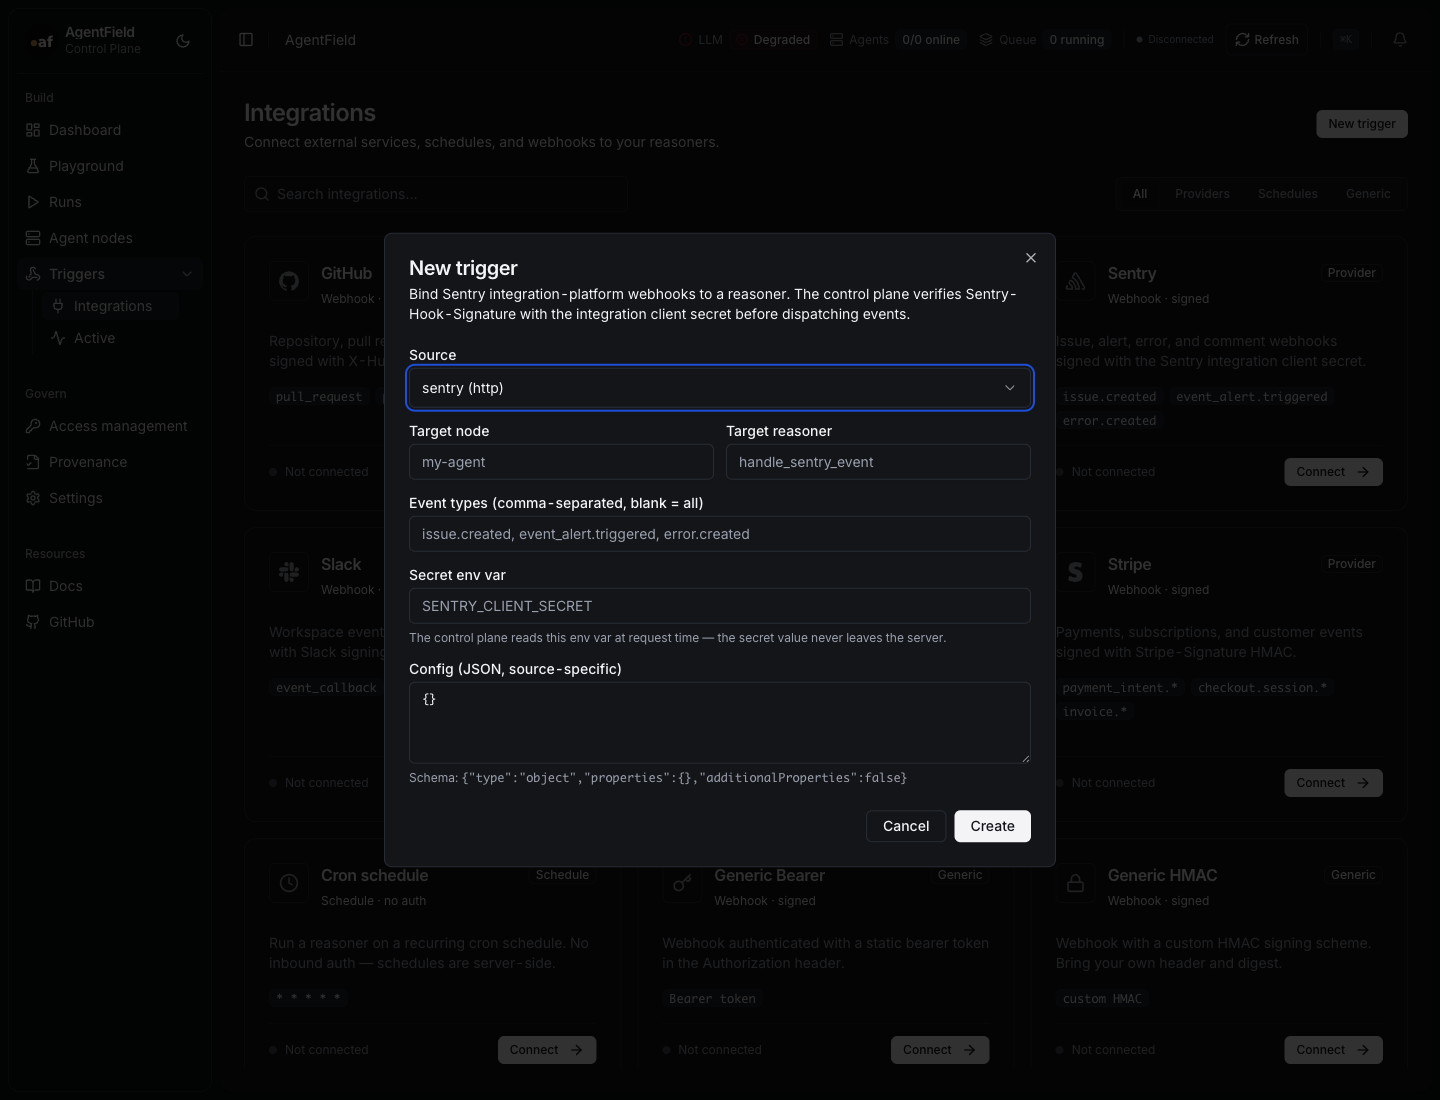
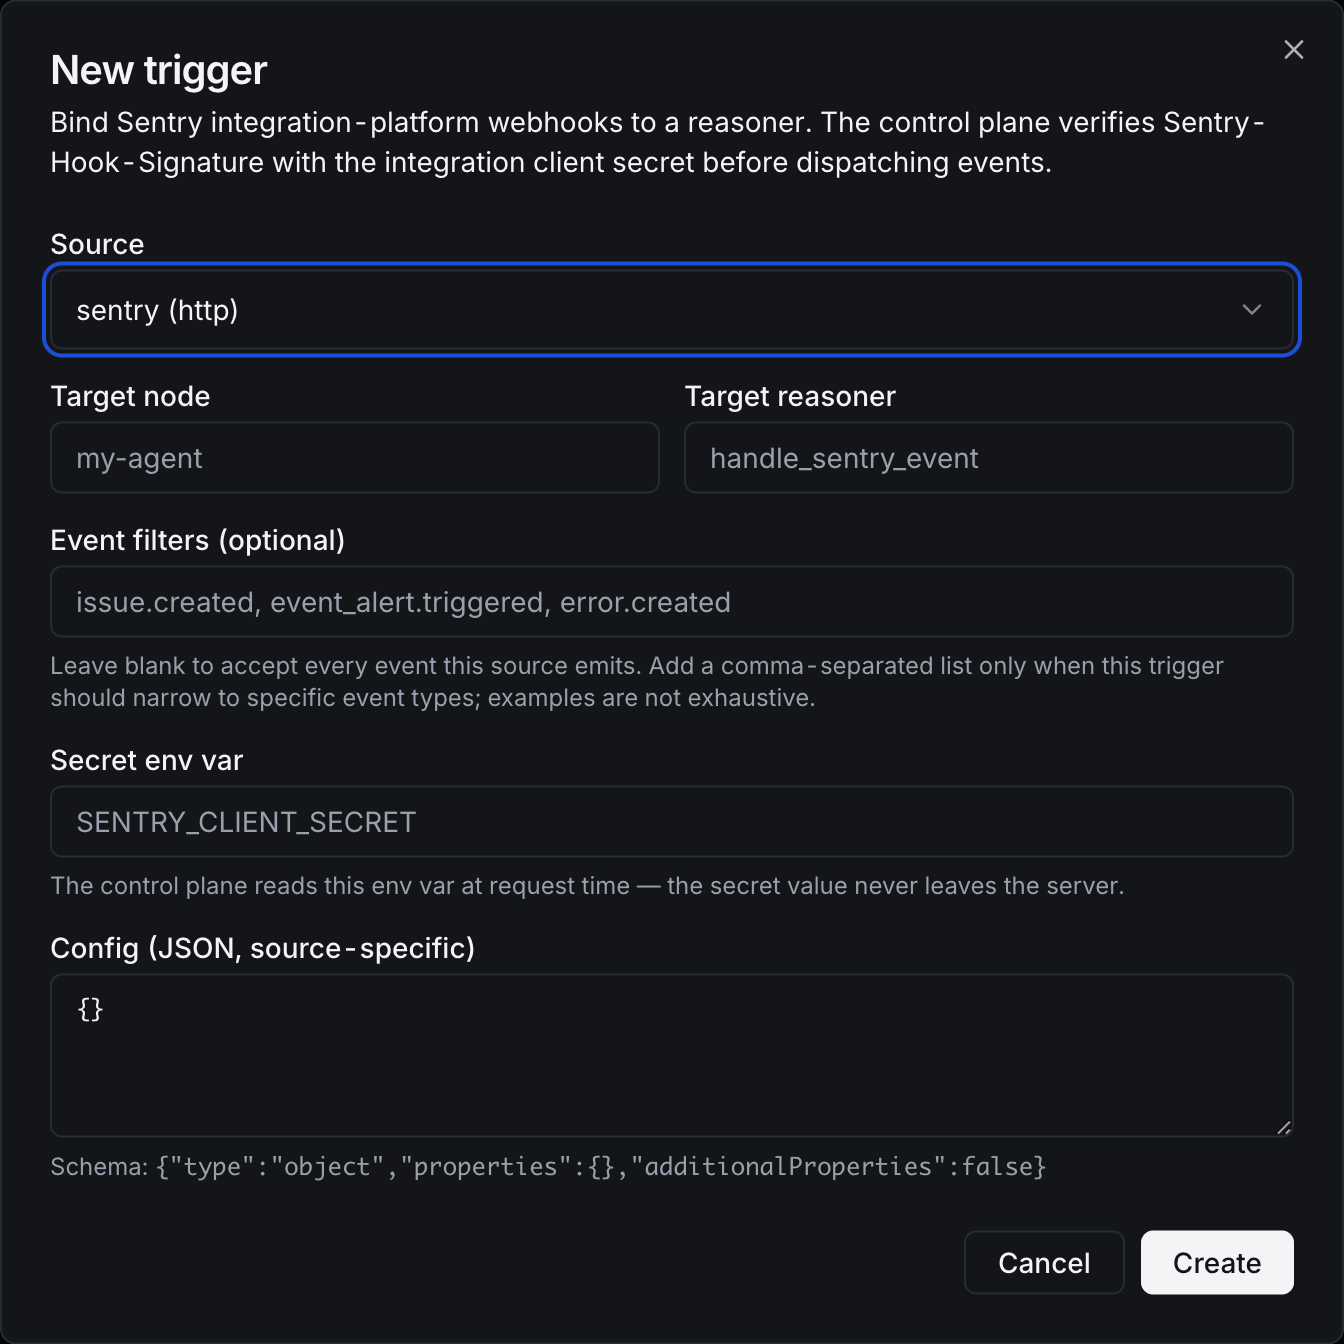
docs: clarify integration event filters

diff --git a/control-plane/web/client/src/test/pages/triggers-pages.test.tsx b/control-plane/web/client/src/test/pages/triggers-pages.test.tsx
@@ -243,7 +243,7 @@ describe("trigger management pages", () => {
     expect(await screen.findByRole("heading", { name: "New trigger" })).toBeInTheDocument();
     expect(screen.getByText(/Snowflake event table poller/i)).toBeInTheDocument();
     expect(screen.getAllByText(/programmatic access token/i).length).toBeGreaterThan(0);
-    expect(screen.queryByText(/Event types/i)).not.toBeInTheDocument();
+    expect(screen.queryByText(/Event filters/i)).not.toBeInTheDocument();
     expect(screen.getByPlaceholderText("handle_snowflake_event")).toBeInTheDocument();
     expect(screen.getByPlaceholderText("SNOWFLAKE_PAT")).toBeInTheDocument();
     expect(screen.getByDisplayValue(/"mode": "event_table_poll"/i)).toBeInTheDocument();
@@ -264,6 +264,8 @@ describe("trigger management pages", () => {
     expect(linearConnect).toBeTruthy();
     await user.click(linearConnect!);
     expect((await screen.findAllByText(/Linear-Signature/i)).length).toBeGreaterThan(0);
+    expect(screen.getByText("Event filters (optional)")).toBeInTheDocument();
+    expect(screen.getByText(/Leave blank to accept every event/i)).toBeInTheDocument();
     expect(screen.getByPlaceholderText("handle_linear_event")).toBeInTheDocument();
     expect(screen.getByPlaceholderText("LINEAR_WEBHOOK_SECRET")).toBeInTheDocument();
     expect(screen.getByDisplayValue(/"tolerance_seconds": 60/)).toBeInTheDocument();

diff --git a/docs/integrations/linear.md b/docs/integrations/linear.md
@@ -12,7 +12,7 @@ AgentField verifies `Linear-Signature`, rejects stale `webhookTimestamp` values 
 
 ![Linear connect dialog](../screenshots/linear-connect-dialog.png)
 
-The dialog pre-fills the common event filters, the signing-secret env var, and the timestamp tolerance config. Leave event types blank when one trigger should accept every Linear event.
+The dialog shows common event-type examples, the signing-secret env var, and the timestamp tolerance config. Event filters are optional; leave them blank when one trigger should accept every Linear event, including future event types Linear may add.
 
 ## Capability Node
 

diff --git a/docs/integrations/sentry.md b/docs/integrations/sentry.md
@@ -12,7 +12,7 @@ AgentField verifies `Sentry-Hook-Signature` and emits event types such as `issue
 
 ![Sentry connect dialog](../screenshots/sentry-connect-dialog.png)
 
-The dialog pre-fills common issue, alert, and error event filters plus the client-secret env var. Leave event types blank when one trigger should accept every Sentry webhook resource.
+The dialog shows common issue, alert, and error event-type examples plus the client-secret env var. Event filters are optional; leave them blank when one trigger should accept every Sentry webhook resource, including future event types Sentry may add.
 
 ## Capability Node
 
